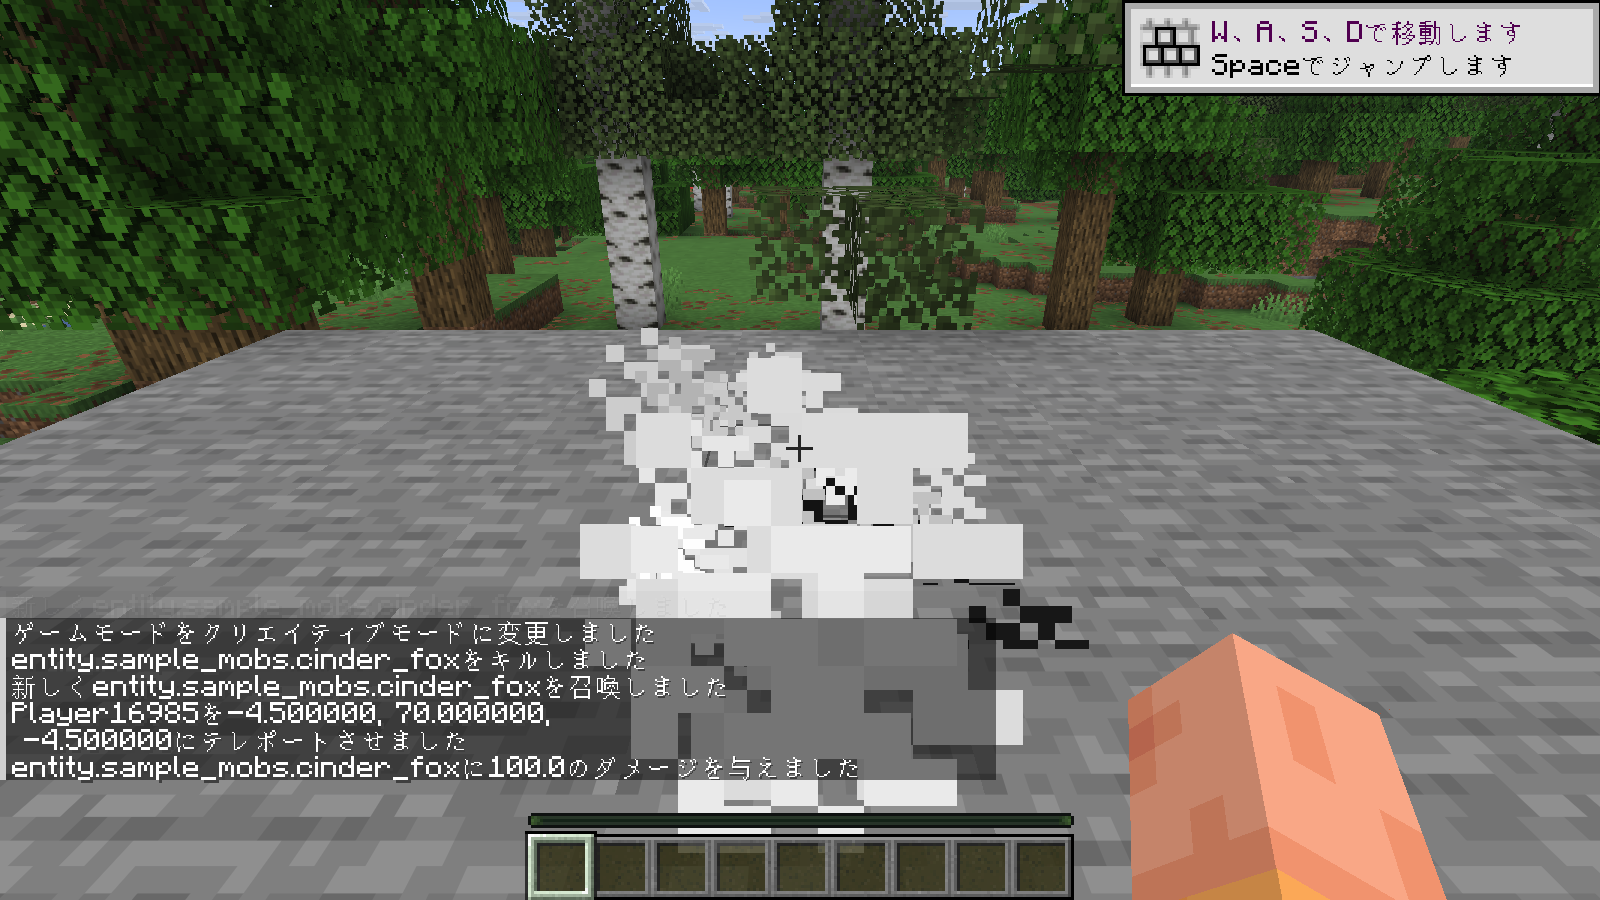
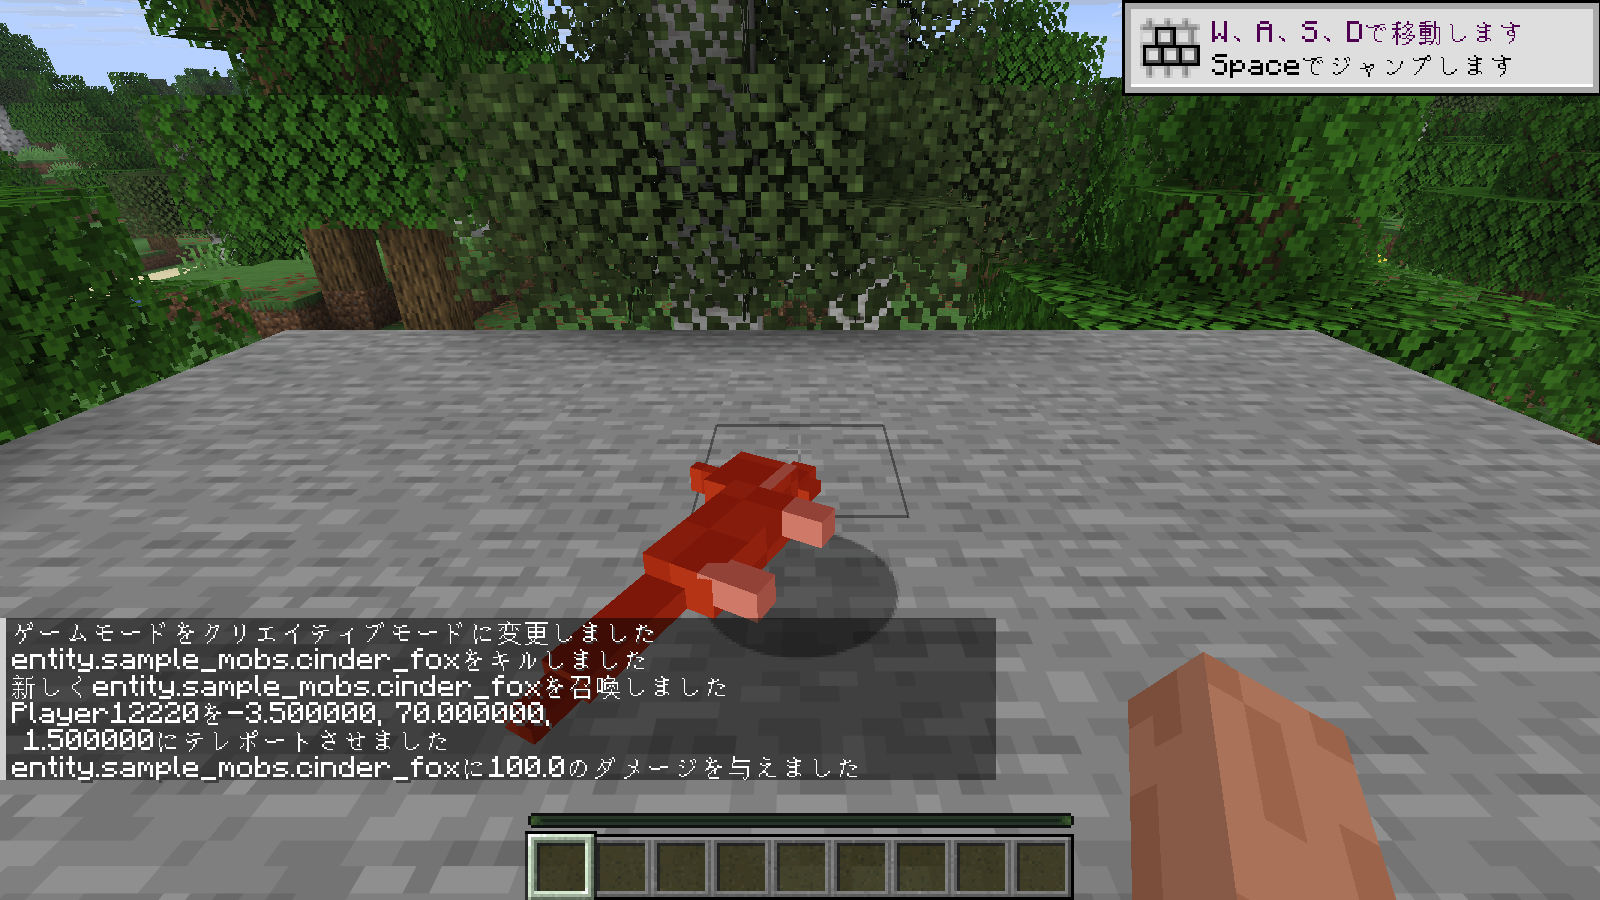
FR-MERGE6: report, final screenshots, name-tag check honesty

diff --git a/tools/custom_mob_render_e2e.py b/tools/custom_mob_render_e2e.py
@@ -220,7 +220,8 @@ def run(ctl, out, shots, resources):
         look_at_fox(host, fox, back=3.0, dy=0.9)
         tag = shot(host, 'nametag')
         clear_foxes(host)
-        results['name'] = {'pass': Path(tag).stat().st_size > 5000, 'detail': {
+        named_ok = not any('←' in line for line in named.get('chat', []))  # the parser marks the error position with an arrow
+        results['name'] = {'pass': named_ok and Path(tag).stat().st_size > 5000, 'detail': {
             'data_merge_reply': named, 'png': saved['nametag'], 'note': 'the tag is judged by looking at the PNG (a pixel check cannot tell text)'}}
 
         # strike-mob: a fox next to a chicken (creative host: no player target): the blow lands on the chicken.

diff --git a/docs/yoake2/reports/FR-MERGE6.md b/docs/yoake2/reports/FR-MERGE6.md
@@ -1,0 +1,71 @@
+# FR-MERGE6: permanent id reservations, F4M-6 (custom mob rendering), F4M-10 (WASM mob API) and the in-game checks
+
+Base `05c4d6bae` (MERGE5). No push.
+
+## 1. Permanent fix for the id collisions (commit "Reserved id ranges ...")
+
+* **Hook ids.** `hook-ledger/meta.json` has a `reserved` list; `LedgerSet::assign` (the allocator used by `sync-ledger` and the stamp tool) jumps over reserved ranges and `LedgerSet::validate`
+  (run on every load and save) fails when a ledger entry lies in one, when a range is empty or outside `1..TEST_ID_BASE`, or when two ranges overlap. The custom-mob hook range moved to
+  **1_040_000..=1_040_999** (`reserved_ids::HOOK_FIRST/LAST`); `next_id` stays 11755. Tests: `the_allocator_skips_a_reserved_range`, `a_live_id_inside_a_reserved_range_fails_validation`,
+  `reserved_ranges_must_not_overlap_or_be_empty` (`yoake-hook-ledger`, 36 tests), plus the pinned `the_reserved_id_ranges_are_in_the_locks` (`horizon-mods`).
+* **Binding ids.** `ids.lock.json` has a `reserved` list (custom_mobs 1515..=2514, the `unbound` sentinel stays); `Lock::assign` skips reserved ranges, `reserved_violations` (also part of
+  `append_only_violations`) reports an entry inside a range (an `unbound` sentinel excepted). Tests: `new_ids_skip_a_reserved_range`, `an_entry_inside_a_reserved_range_is_a_violation_but_the_unbound_sentinel_is_not`
+  (`yoake-bindgen`).
+* Documented in the new `hook-ledger/README.md` and `crates/yoake-bindgen/README.md` (incl. how to merge a branch that was cut before a range was reserved). F4M-10 assigns no ledger hook ids, so the range is unaffected.
+
+## 2. Merges
+
+* `f4m-6` @88509ce78 (client rendering of custom mobs; on top of f4m-4c 040ce9eb0): no conflicts.
+* `f4m-10` @4e67e7d49 (WASM mob API: server catalog 1.3.0 / client 1.7.0, services 260-283, 20 script hooks in `tools/native-hook-fragments/f4m_mobs.json`, permission `service.mobs`, `fox_ai` guest; it already
+  contained MERGE5): one conflict in `game/custom_mob_draw.rs` (`custom()` in the event sink: kept my `info` log line and F4M-10's `rt.mob_anim_event` call).
+* After the merge: `YOAKE_UPDATE_WIT=1 cargo test -p horizon-mod-api-gen --lib` and `regen.sh` produced no change beyond line endings (discarded); `regen.sh --check` passes. Catalog ids unique, `abi_1_0_is_additive` passes.
+
+## 3. Test results
+
+Parity goldens `f4m_parity -- --ignored` (A `golden_a_saves`, B `golden_b_network`, C `golden_c_render_types_and_identity`):
+
+| Stage | A | B | C |
+|---|---|---|---|
+| after f4m-6 (93556fba4) | pass | pass | pass |
+| after f4m-10 (final tree) | pass | pass | pass |
+
+Final tree: `horizon-client-lib --lib` 1877 passed (48 ignored); `horizon-client --lib` 1243 passed (52 ignored), which includes `golden_vertex_hashes_of_every_animation`; `level_registry_tests --ignored` 11 passed;
+`horizon-command` 37; `horizon-world` 385 + integration; `horizon-mods --features yak` 96 + 43; `horizon-mod-api-gen` 46; `yoake-wasm` all binaries; `yoake-slice` 32 + 1; `horizon-mobmodel` all (incl. its goldens);
+hook crates and `yoake-bindgen` all pass; `cargo check -p horizon-client --features yoake2-slice` ok; `regen.sh --check` ok.
+
+**Golden vertex hashes vs the laptop.** The hashes of `golden_vertex_hashes_of_every_animation` were produced on the laptop; the same test passes here on a different machine (Windows host), so the vertices of the six animations at frame 10 of 30 are
+bit-for-bit (to the test's 1e-4 quantisation) the same on both. They are computed by the render code's own vertex builder from the fixture, not read back from the running game; no hook exists to hash what the real game draws, so
+"the real game produces these vertices" is only established indirectly by the screenshots below (the fox is drawn in the pose the animation names).
+
+## 4. In-game checks (FR-F4M-6 "In-game checks for Yoake")
+
+New: `/horizon custommobs trigger <targets> <name>` (op 2, `horizon_commands`, next to `custommobs stats`; needs `--pregen`, which turns Horizon's own commands on): fires an animation trigger as the server's
+runtime would (`anim_sync::request_trigger`); parse test `horizon_custommobs_trigger_takes_targets_and_a_name_for_game_masters`. New log lines (info): `Horizon custom-mob server frame` (server `hit` frame), `events` (one per tick
+with client events), `sound`, `particle`, `event` (the `hit` custom event). New repeatable harness `tools/custom_mob_render_e2e.py` (real games, `--offscreen --no-focus --no-pause`, host + guest, scratch copy of the
+fixture patched with a bite sound and a flame particle at the pounce's `hit` keyframe and a `melee_attack` goal; PYTHONUTF8=1; refuses to start while another `horizon-client` runs). Last run on the final tree, dev binaries:
+
+| Check | Result | Evidence |
+|---|---|---|
+| 1 offscreen fox render | pass | `docs/yoake2/reports/img/f4m6-idle-day.png`: upright, textured, standing on its feet, head to the right (front of the model = the mob's front); not mirrored |
+| 4 glow mask | pass (judged by eye) | `f4m6-idle-night.png`: at midnight the fox is dark and one small spot (eye) stays lit; 1.26 M pixels differ from the daylight shot (whole scene). Not compared with the automatic `_glowmask` pick-up |
+| 3 pounce, client events | pass | `f4m6-pounce.png` (6 ticks after the trigger: body shifted, flame particle at the mouth). The server logs the `hit` frame once (tick 1952); the host's client logs the sound, the particle and the `hit` event in tick 1952, once each; the guest's client (through `horizon:mob_sync`) logs the same, once each, in tick 1952 |
+| 5 LOD | pass | `f4m6-lod-30.png`, `f4m6-lod-70.png`: the fox is still drawn at 30 and 70 blocks (pixels differ from the empty scene). The 24/48/64 step behaviour itself was not checked, and the 2x2 cull box was not turned at |
+| 6 name tag | **not covered** | `data merge entity ... CustomName` is refused for a custom mob ("selector yields multiple"), so no tag was shown (`f4m6-nametag.png` shows the fox without one). A custom mob cannot be named by `summon` NBT either (the entity type is not found with an NBT argument) |
+| 7 death | pass, timing varies | `/damage` 100: the body is gone 4 to 20 ticks after the damage in four runs (`f4m6-death.png`: the removal smoke), not the fixture clip's 12 ticks consistently; the sampling is 2 ticks plus command latency, so only "removed within 20 ticks" is established |
+| 3 server hit (damage) | **fails / open** | with the fox in reach (distance 1.0 to 0.6, difficulty normal, survival host): the server delivers the `hit` frame (once per strike) but neither the host (20 -> 20) nor a chicken (4 -> 4 or removed) loses health. The same goal's unit tests pass; the integration looks broken between `deliver_frame`/`land` and the game (`MobEvent::AttackPlayer` -> `mob_hits_player`), or the patched fixture's `melee_attack` is incomplete. Not resolved here; for F4M-4a/5b to look at |
+| 8 held item, 9 hide a bone | not run | |
+
+Where the harness cannot do what was asked:
+* **Real script goal / `fox_ai` guest:** not loaded. The guest has no `yak.toml` and no packaging slot for a `[wasm]` section in the fixture (F4M-10 report, open question 1), so a dev run cannot install it; the pounce was fired
+  with the dev trigger command and the strike was tried with a data-driven `melee_attack` goal. The guest itself is covered by `wasm_mods::mob_runtime` (4 passed, per the F4M-10 report).
+* **Stock client:** none on this host.
+
+mob-sync e2e on the final tree (`tools/mob_sync_e2e.py`): quiet, fox, store (1 snapshot, 13 deltas, 0 dropped, 0 incompatible), late (first line a snapshot): all pass.
+
+## Screenshots
+
+`docs/yoake2/reports/img/f4m6-idle-day.png`, `f4m6-idle-night.png`, `f4m6-pounce.png`, `f4m6-lod-30.png`, `f4m6-lod-70.png`, `f4m6-nametag.png`, `f4m6-death.png`.
+
+## Disk
+
+13 GB free at the start and the end; the run waited (the script gates every step on 12 GB) three times while other builds ran. Freed: `target/doc`, `target/release`, `target/tmp` (~0.2 GB).
